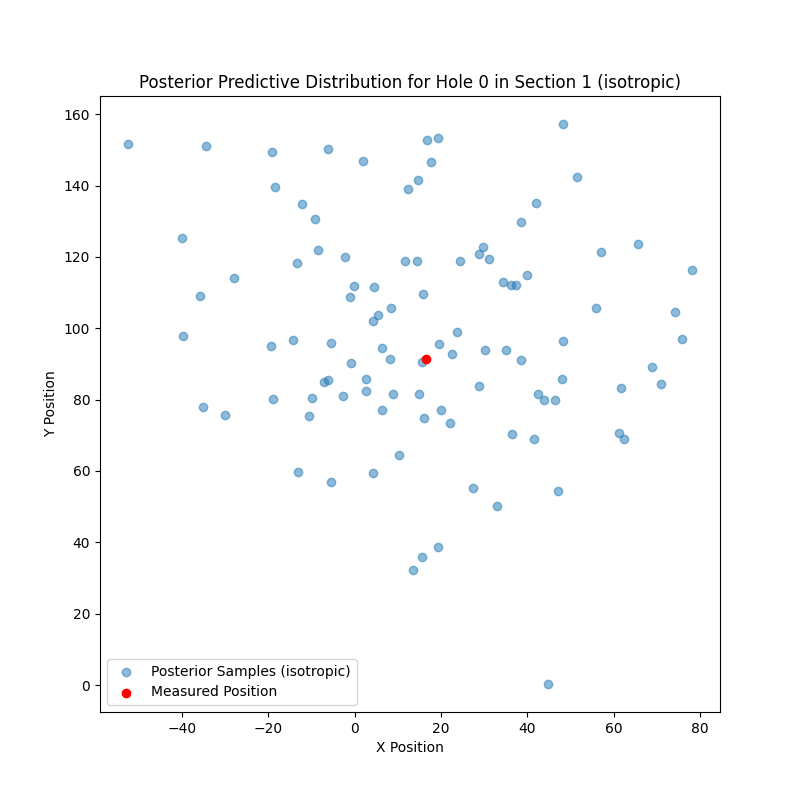
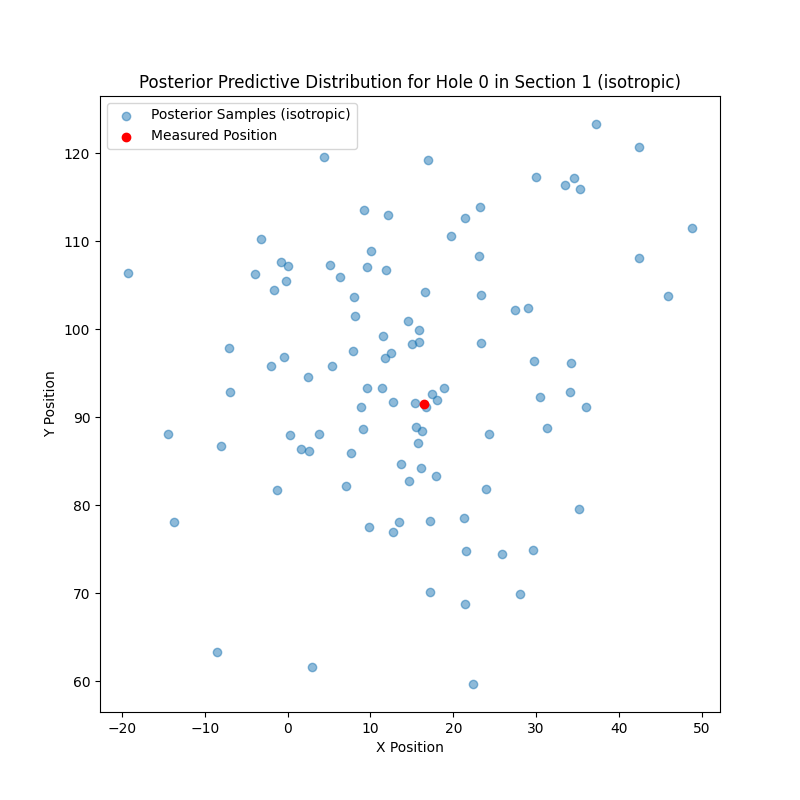
regenerated some of the plots

diff --git a/code/antikythera_model.py b/code/antikythera_model.py
@@ -36,7 +36,7 @@ class AntikytheraModel(nn.Module):
         section_params = {}
         for i, section in enumerate(self.section_ids):
             x0 = 80.0 + i
-            y0 = 136.0
+            y0 = 136.0 + 0.5*i
             alpha = -145.0 - 0.5 * i
             
             section_params[section] = [x0, y0, alpha]
@@ -231,6 +231,44 @@ class AntikytheraModel(nn.Module):
             params['section_params'][section] = [x0.item(), y0.item(), alpha.item()]
         
         return params
+    
+
+    def diff_test(self):
+        print("Testing autodifferentiation...")
+        r2 = self.r**2
+        r2.backward()
+        print(f"r^2 gradient: {self.r.grad}")
+        self.r.grad.zero_()
+
+        rtwice = 2 * self.r
+        rtwice.backward()
+        print(f"2r gradient: {self.r.grad}")
+        self.r.grad.zero_()
+
+        # Test sigma parameters based on covariance type
+        if self.covariance_type == "isotropic":
+            # Operating directly on the parameter instead of through the property
+            sigma_expo = torch.exp(torch.log(self._e_sigma))
+            sigma_expo.backward()
+            print(f"exp(log(sigma)) gradient: {self._e_sigma.grad}")
+            self._e_sigma.grad.zero_()
+        else:
+            # For non-isotropic case, test both sigma_r and sigma_t
+            sigma_r_expo = torch.exp(torch.log(self._e_sigma_r))
+            sigma_r_expo.backward()
+            print(f"exp(log(sigma_r)) gradient: {self._e_sigma_r.grad}")
+            self._e_sigma_r.grad.zero_()
+            
+            sigma_t_expo = torch.exp(torch.log(self._e_sigma_t))
+            sigma_t_expo.backward()
+            print(f"exp(log(sigma_t)) gradient: {self._e_sigma_t.grad}")
+            self._e_sigma_t.grad.zero_()
+        
+        print("Autodifferentiation test passed.")
+        return 0
+
+    
+
 def load_hole_data(filename):
     """
     Load the hole location data from the file.
@@ -255,6 +293,10 @@ def load_hole_data(filename):
         hole_indices[section] = list(range(1, len(positions) + 1))
     
     return data, measured_positions, hole_indices
+
+
+
+
 
 
 def main():
@@ -294,6 +336,14 @@ def main():
     plt.savefig("graphs/predicted_hole_positions.png")
     plt.show()
 
+    model = AntikytheraModel(section_ids=section_id, covariance_type="isotropic")
+    model.diff_test()
+
+    
+
+
+
+    
     return 0 
 
 if __name__ == "__main__":

diff --git a/code/hmc.py b/code/hmc.py
@@ -40,7 +40,7 @@ def bayesian_model(covariance_model="isotropic"):
     # Only sample the first hole from each section
     if covariance_model == "isotropic":
         # Sample the global sigma parameter once
-        sigma = pyro.sample("sigma", dist.HalfNormal(5.0))  # Standard deviation
+        sigma = pyro.sample("sigma", dist.HalfNormal(1.0))  # Standard deviation
         
         for section_id in measured_positions.keys():
             if len(measured_positions[section_id]) > 0:  
@@ -56,14 +56,14 @@ def bayesian_model(covariance_model="isotropic"):
                     dist.MultivariateNormal(torch.tensor([mean_x, mean_y]), covariance_matrix=cov_matrix),
                     obs=torch.tensor([x_obs, y_obs])
                 )
-    else:  # anisotropic
-        # Sample the global sigma parameters once
-        sigma_r = pyro.sample("sigma_r", dist.HalfNormal(5.0))  # Radial std dev
-        sigma_t = pyro.sample("sigma_t", dist.HalfNormal(5.0))  # Tangential std dev
+    else:  
+
+        sigma_r = pyro.sample("sigma_r", dist.HalfNormal(1.0))  
+        sigma_t = pyro.sample("sigma_t", dist.HalfNormal(1.0))  
         
         for section_id in measured_positions.keys():
             # Only use the first hole (index 0) from each section
-            if len(measured_positions[section_id]) > 0:  # Make sure there's at least one hole
+            if len(measured_positions[section_id]) > 0: 
                 hole_idx = 0
                 x_obs, y_obs = measured_positions[section_id][hole_idx]
                 
@@ -178,7 +178,7 @@ def sampling(covariance_model="isotropic"):
 
 def main():
     sampling("isotropic")
-    sampling("anisotropic")
+    sampling("Radial_tangential")
 
 if __name__ == "__main__":
     main()

diff --git a/code/optimize_antikythera.py b/code/optimize_antikythera.py
@@ -46,14 +46,6 @@ def optimize_model(data, hole_indices, model_type="isotropic", learning_rate=0.0
                 total_norm += param_norm.item() ** 2
         total_norm = total_norm ** 0.5
         
-        # if i % 10 == 0:
-        #     print(f"Iteration {i}: Loss = {loss.item():.4f}, Gradient norm = {total_norm:.4f}")
-            
-        #     # Print few parameter gradients (debug)
-        #     for name, param in list(model.named_parameters())[:5]:
-        #         if param.grad is not None:
-        #             print(f"  {name}: grad = {param.grad.data}")
-        
         if torch.isfinite(torch.tensor(total_norm)) and total_norm > 0:
             optimizer.step()
 
@@ -150,7 +142,7 @@ def main():
         hole_indices, 
         model_type="isotropic", 
         learning_rate=0.001,
-        num_iterations=500
+        num_iterations=1000
     )
     
     print("\nOptimized parameters (isotropic):")
@@ -181,7 +173,7 @@ def main():
         hole_indices, 
         model_type="radial_tangential", 
         learning_rate=0.001,
-        num_iterations=500
+        num_iterations=1000
     )
     
     # Print optimized parameters

diff --git a/README.md b/README.md
@@ -49,3 +49,23 @@ pip install -r requirements.txt
 
 ## Usage
 
+All commands below should be executed at the root of this directory. 
+
+
+The code that produces figure in (a) can be executed by:
+
+```sh
+python code/visualize.py
+```
+
+The model that the referenced paper described is inside `code/antikythera_model.py`. To use the model to generate predicted locations, please execute the following command:
+```sh
+python code/antikythera_model.py
+```
+
+The program that computes maximum likelihood paramter is `code/optimize_antikythera.py`. To regenerate the results, please run the following command:
+```sh
+python code/optimize_antikythera.py
+```
+
+
